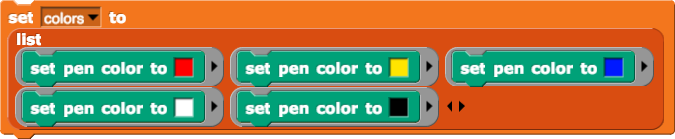
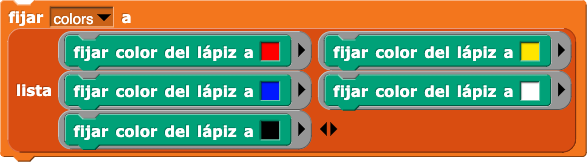
XML - 7.2.4 Images

diff --git a/cur/programming/7-recursion/2-projects/3-c-curve.es.html b/cur/programming/7-recursion/2-projects/3-c-curve.es.html
@@ -34,6 +34,7 @@
         <img class="indent noshadow" src="/bjc-r/img/7-recursion/c-curve-level01.jpg"
             alt="Lévy C-Curve Level 1: just a straight line segment"
             title="Lévy C-Curve Level 1: just a straight line segment" />
+        <img class="indent" src="/bjc-r/img/7-recursion/c-curve-level01-block.es.png" alt="curva-C, nivel: (1) tamaño: (150)" title="C-curve, level: (1) size: (150)" />
     </p>
     <p>
         En cada nivel, el algoritmo reemplaza una línea recta con una línea doblada, siguiendo esta regla: girar 45&deg;
@@ -48,6 +49,7 @@
         <img class="indent noshadow" src="/bjc-r/img/7-recursion/c-curve-level02.jpg"
             alt="Lévy C-Curve Level 2: segment broken into two segments that meet at a right angle in the middle"
             title="Lévy C-Curve Level 2: segment broken into two segments that meet at a right angle in the middle" />
+        <img class="indent" src="/bjc-r/img/7-recursion/c-curve-level02-block.es.png" alt="curva-C, nivel: (2) tamaño: (150)" title="C-curve, level: (2) size: (150)" />
     </p>
     <div class="forYouToDo" id="first">
         <ol>
@@ -71,6 +73,7 @@
         <img class="indent noshadow" src="/bjc-r/img/7-recursion/c-curve-level03.jpg"
             alt="Lévy C-Curve Level 3: two short sides and one long side of a rectangle formed"
             title="Lévy C-Curve Level 3: two short sides and one long side of a rectangle formed" />
+        <img class="indent" src="/bjc-r/img/7-recursion/c-curve-level03-block.es.png" alt="C-curve, level: (3) size: (150)" title="C-curve, level: (3) size: (150)" />
     </p>
     <div class="forYouToDo">
         <ol start="2">
@@ -98,6 +101,7 @@
         Este algoritmo simple construye un diseño complicado en niveles más altos:<br />
         <img class="indent noshadow" src="/bjc-r/img/7-recursion/c-curve-level04.jpg" alt="Lévy C-Curve Level 4"
             title="Lévy C-Curve Level 4" /><br />
+        <img class="indent" src="/bjc-r/img/7-recursion/c-curve-level04-block.es.png" alt="C-curve, level: (4) size: (150)" title="C-curve, level: (4) size: (150)" /><br />
     <div class="comment">PG: Putting all the pictures here steals the fun of discovery. We need just enough to give the
         idea, but no more.</div>
     <img class="indent noshadow" src="/bjc-r/img/7-recursion/c-curve-level05.jpg" alt="Lévy C-Curve Level 5"

diff --git a/cur/programming/7-recursion/2-projects/4-mondrian.es.html b/cur/programming/7-recursion/2-projects/4-mondrian.es.html
@@ -68,6 +68,30 @@
                         alt="Click here to load this file. Then save it to your Snap! account."
                         title="Click here to load this file. Then save it to your Snap! account."></a><br /> Algunos
                 bloques ya están creados para ti y el script que llama a <code>Mondrian</code> ya está configurado.
+
+                <img class="indent" src="/bjc-r/img/7-recursion/set-colors.es.png" alt="set (color) to {(set pen color to red), (set pen color to yellow), (set pen color to blue), (set pen color to white), (set pen color to black)}" title="set (color) to {(set pen color to red), (set pen color to yellow), (set pen color to blue), (set pen color to white), (set pen color to black)}" />
+                <img class="indent" src="/bjc-r/img/7-recursion/rectangle-block.es.png" alt="rectangle, width: (400) height: (300)" title="rectangle, width: (400) height: (300)" />
+                <img class="indent" src="/bjc-r/img/7-recursion/Mondrian-block.es.png" alt="Mondrian, level: (5) width: (400) height: (300)" title="Mondrian, level: (5) width: (400) height: (300)" />
+                        
+                <img class="indent" src="/bjc-r/img/7-recursion/set-pen-to-paint.es.png" alt="set pen to paint with thickness (thickness) {
+                    set pen size to (thickness)
+                    run (item (random) of (colors))
+                    set (flat line ends) to (true)
+                }" title="set pen to paint with thickness (thickness) {
+                    set pen size to (thickness)
+                    run (item (random) of (colors))
+                    set (flat line ends) to (true)
+                }" />
+
+                <img class="indent" src="/bjc-r/img/7-recursion/set-pen-to-line.es.png" alt="set pen to black line {
+                    set pen size to (5)
+                    set pen (brightness) to (0)
+                    set (flat line ends) to (false)
+                }" title="set pen to black line {
+                    set pen size to (5)
+                    set pen (brightness) to (0)
+                    set (flat line ends) to (false)
+                }" />
             </li>
             <li>
                 Primero, termine de programar el caso base, el bloque <code>rectangle</code>. Use una línea de color con

diff --git a/cur/programming/7-recursion/2-projects/1-triangle-fractal.es.html b/cur/programming/7-recursion/2-projects/1-triangle-fractal.es.html
@@ -32,7 +32,7 @@
             <li>
                 Primero, escriba un bloque que tome un <var>size</var> como entrada y dibuje un triángulo
                 equilátero.<br />
-                <img class="indent" src="/bjc-r/img/7-recursion/triangle-size-40.es.png" alt="triangle size: (40)"
+                <img class="indent" src="/bjc-r/img/7-recursion/triangle-size-175.es.png" alt="triangle size: (40)"
                     title="triangle size: (40)" />
                 <img class="indent" src="/bjc-r/img/7-recursion/triangle-size-40-drawing.jpg"
                     alt="triangle size: (40) drawing" title="triangle size: (40) drawing" />
@@ -45,7 +45,7 @@
     <p>
         <code>triangle</code> es el caso base. Puedes modificarlo, o crear un nuevo bloque con <var>level</var> y
         Entradas de <var>size</var> como <code>tree</code>:<br />
-        <img class="indent" src="/bjc-r/img/7-recursion/tri-frac-1-head.es.png"
+        <img class="indent" src="/bjc-r/img/7-recursion/triangle-size-175.es.png"
             alt="triangle fractal level: (level #) size: (size #)"
             title="triangle fractal level: (level #) size: (size #)" />
     </p>
@@ -79,7 +79,7 @@
                     El bloque <code>warp</code> (en la paleta de control amarilla) hace que los scripts que contiene se ejecuten más
                     rápido al
                     no permitir que se ejecuten otros scripts ni actualizar la pantalla hasta que finalice.<br />
-                <img class="indent" src="/bjc-r/img/7-recursion/tri-frac-1-in-warp.es.png"
+                <img class="indent" src="/bjc-r/img/7-recursion/warped-175.es.png"
                     alt="warp{triangle fractal level:(9) size:(100)}"
                     title="warp{triangle fractal level:(9) size:(100)}" />
             </div>
